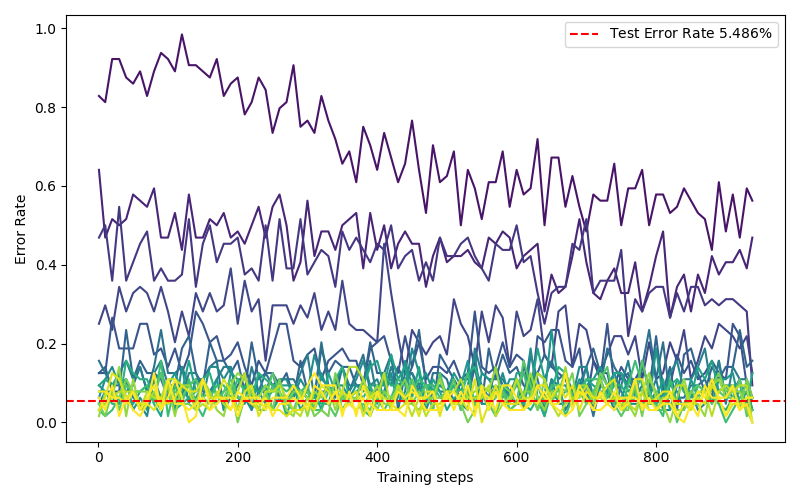
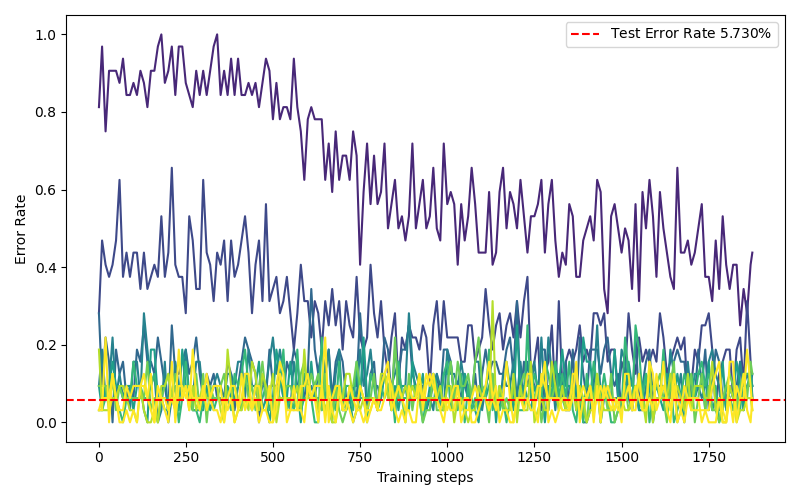
mini train batch, larger test batch, fewer epochs

diff --git a/main.py b/main.py
@@ -141,7 +141,12 @@ if __name__ == "__main__":
             y = y.to(DEVICE)
             # Making fast alternation between postive and negative
             model.trainOn(x, y)
-            model.trainOn(x, y[torch.randperm(x.shape[0])], False)
+            model.trainOn(
+                x,
+                # Make sure the false labels are different from the true ones
+                (y + (torch.rand(x.shape[0]) * 8 + 1).round().to(DEVICE)) % 10,
+                False,
+            )
             if i == 0 or (i + 1) % LOG_INTERVAL == 0 or i + 1 == len(train_loader):
                 error_rate = (model.predict(x) != y).float().mean()
                 LOGGER.info(

diff --git a/params.py b/params.py
@@ -1,12 +1,12 @@
 """Hyperparameters for the forward-forward model"""
 DEVICE = "cuda"
 DIMS = [512, 256, 128]
-EPOCH = 20
+EPOCH = 10
 EPSILON = 1e-9
 LEARNING_RATE = 0.01
 LOG_INTERVAL = 10
 LOG_LEVEL = "INFO"
 SEED = 2023
-TEST_BATCH_SIZE = 2048
+TEST_BATCH_SIZE = 16384
 THRESHOLD = 2
-TRAIN_BATCH_SIZE = 64
+TRAIN_BATCH_SIZE = 32
